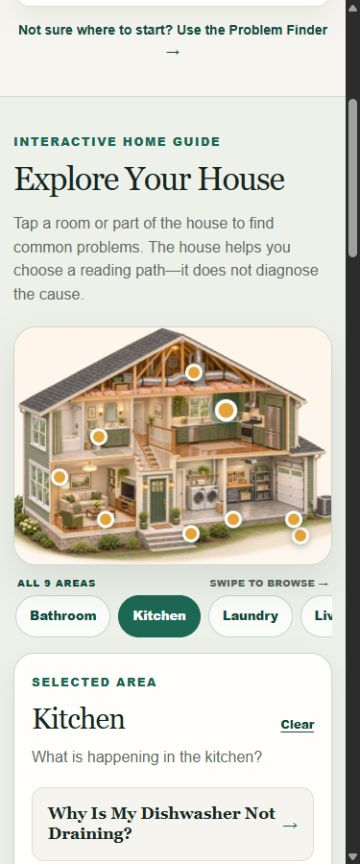
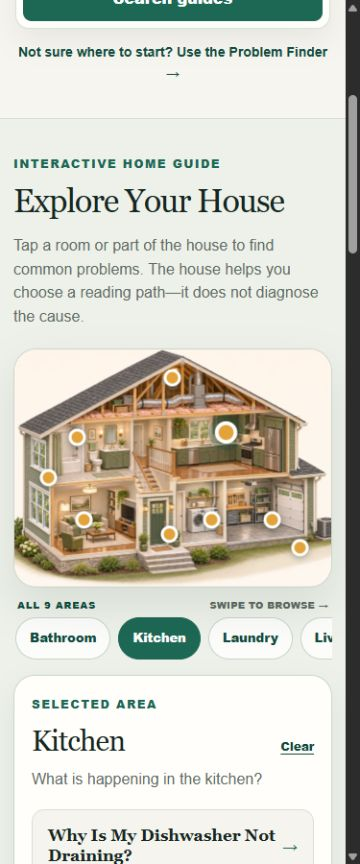
fix: center mobile explorer targets

diff --git a/app/globals.css b/app/globals.css
@@ -323,6 +323,7 @@ table { display: block; max-width: 100%; overflow-x: auto; }
     position: absolute;
     left: var(--hotspot-mobile-x);
     top: var(--hotspot-mobile-y);
+    transform: translate(-50%, -50%);
     justify-content: center;
     padding: 0;
     border-color: transparent;

diff --git a/docs/visual-audits/mobile-house-explorer/README.md b/docs/visual-audits/mobile-house-explorer/README.md
@@ -50,4 +50,4 @@ The `baseline/` directory contains production screenshots from the starting comm
 
 Interactive browser checks covered every hotspot, the horizontal rail, keyboard activation, recommendation links, one-time entrance motion, reduced motion, and the required responsive widths. Real iOS rubber-band behavior was not available in this environment and remains a device-only limitation.
 
-The mandatory refinement pass moved the edge-adjacent HVAC and Front Door targets inward and added a Detailed-only absolute-positioning override. The final 320, 375, 390, and 430px rendered checks confirm every full 45px target remains inside the clipped visual stage after selection.
+The mandatory refinement pass moved the edge-adjacent HVAC, Windows, Roof / Attic, and Front Door targets inward, separated the HVAC and Garage target centers, and gave every Detailed marker the same centered absolute positioning before and after selection. The final 320, 375, 390, and 430px rendered checks confirm every full 45px target remains inside the clipped visual stage in both states.
